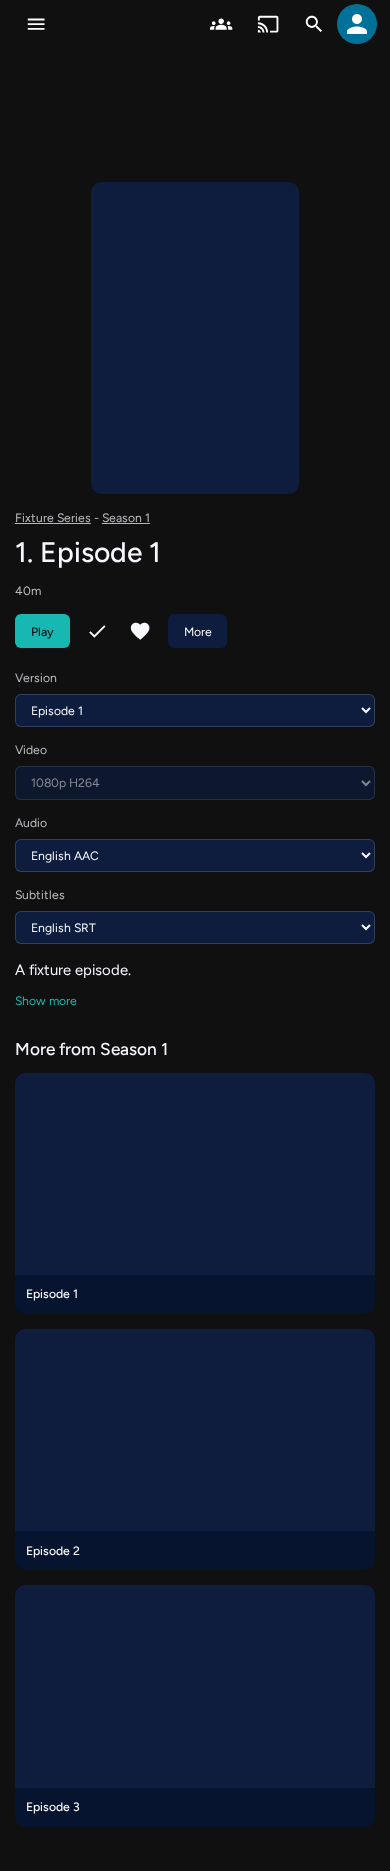
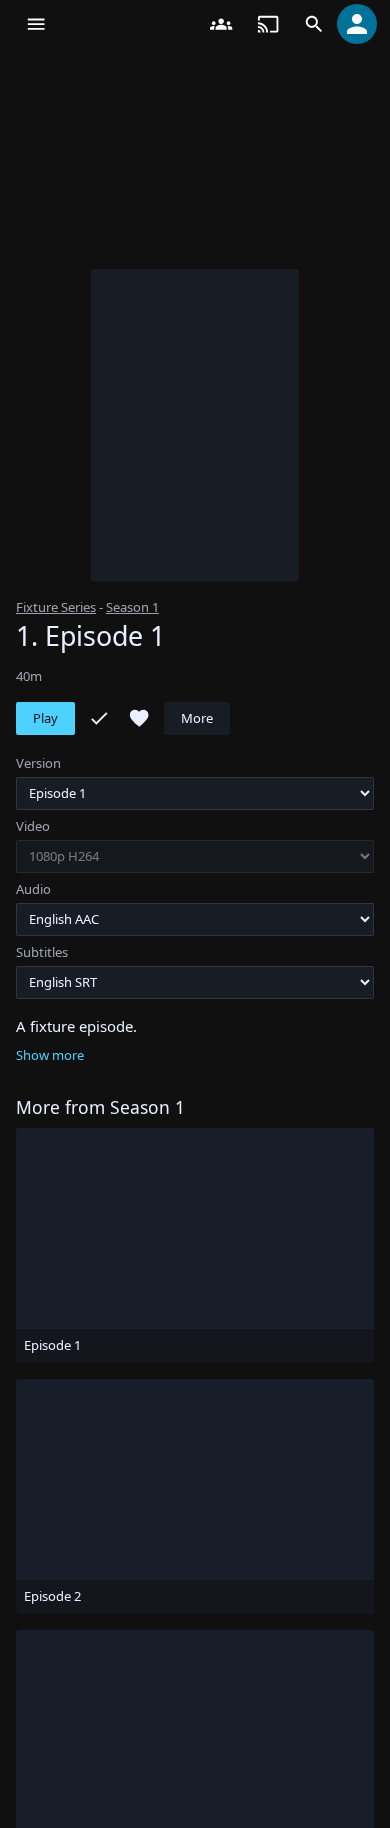
test(item-details): capture the whole theme, not just its recipe
The recipe captures applied the presentation record and nothing else, so
both official themes rendered in the default palette and differed only
by section order — which reads as 'nearly identical', because it is.

A theme reaches a reader as tokens AND a recipe. The suite now injects
the emitted [data-rf-theme] token tier from dist/ (rather than
reimplementing the token projection) alongside the recipe, and asserts
both arrived: data-rf-theme is the requested id and --rf-color-surface
differs between the two.

The platform-default captures are untouched and still byte-identical to
the start commit.

Refs #129

diff --git a/tests/itemDetailsBrowser/itemDetails.recipe.browser.spec.ts b/tests/itemDetailsBrowser/itemDetails.recipe.browser.spec.ts
@@ -16,7 +16,7 @@
  * differ in the order they render, both show the same set of surfaces, and axe finds nothing. The
  * PICTURE is the deliverable, and judging it is the maintainer's job, not a test's.
  */
-import { mkdirSync } from 'node:fs';
+import { mkdirSync, readdirSync } from 'node:fs';
 import { join, resolve } from 'node:path';
 
 import { type Page, expect, test } from '@playwright/test';
@@ -34,8 +34,18 @@ const APPLIED_KEY = 'tesserafin.themeStudio.appliedPresentation';
 mkdirSync(ARTIFACTS, { recursive: true });
 
 const THEMES = [
-    { id: 'classic', label: 'Tesserafin Classic', manifest: classicManifest },
-    { id: 'glass', label: 'Frosted Glass', manifest: glassManifest }
+    {
+        id: 'classic',
+        themeId: 'official.classic',
+        label: 'Tesserafin Classic',
+        manifest: classicManifest
+    },
+    {
+        id: 'glass',
+        themeId: 'official.glass',
+        label: 'Frosted Glass',
+        manifest: glassManifest
+    }
 ] as const;
 
 /** The semantic extremes Phase 7 asks for, limited to what the fixture API can serve. */
@@ -54,13 +64,69 @@ const VIEWPORTS = [
     { id: 'mobile', width: 390, height: 844 }
 ] as const;
 
-async function applyRecipe(page: Page, presentation: unknown) {
-    await page.addInitScript(
-        ([key, value]) => {
-            window.localStorage.setItem(key as string, value as string);
-        },
-        [APPLIED_KEY, JSON.stringify(presentation)] as const
+/**
+ * The generated `--rf-*` token tier for a theme, as an emitted asset.
+ *
+ * `tesserafin-design/scripts/generate-web-tokens.mjs` emits one tier per non-default theme, keyed
+ * on `[data-rf-theme="<id>"]`, and the app fetches it lazily through `ensureColorSchemeLoaded`.
+ * Reading the emitted file rather than rebuilding the tokens here is deliberate: the projection
+ * rule (`ui/tokens/projectTokens.ts`) must not have a second implementation living in a test.
+ *
+ * `null` for the default theme, whose tokens are in the base stylesheet already.
+ */
+function tokenTierFor(themeId: string): string | null {
+    if (themeId === 'official.classic') return null;
+    const slug = themeId.replace(/\./g, '-');
+    const file = readdirSync(DIST).find(
+        (name) =>
+            name.startsWith(`theme-colorscheme-${slug}.`) &&
+            name.endsWith('.css')
     );
+    if (!file) throw new Error(`no emitted token tier for "${themeId}"`);
+    return join(DIST, file);
+}
+
+/**
+ * Dress the page in a theme — BOTH halves of it.
+ *
+ * The first cut of this suite wrote the applied-presentation record and nothing else. That
+ * delivered the recipe and left the palette at the default, so the two themes differed only by
+ * section order and a maintainer reasonably read them as "nearly identical". A capture that shows
+ * less than a reader sees is not evidence.
+ *
+ * A theme reaches a reader as two things and this applies both:
+ *
+ *   - its TOKENS — the emitted `[data-rf-theme]` tier above, plus the attribute that selects it;
+ *   - its RECIPE — `presentation`, through the record `PresentationProvider` reads.
+ *
+ * The picker path (`userSettings.theme()` → `themeManager` → `THEME_CHANGE`) is deliberately not
+ * driven here: it needs the authenticated settings round-trip this server-free fixture does not
+ * reproduce, and it is not what #129 Step 2 changes. What is asserted below is that both halves
+ * arrived — `data-rf-theme` is the requested id and `--rf-color-surface` differs between the two.
+ */
+async function wearTheme(page: Page, themeId: string, presentation: unknown) {
+    await page.addInitScript(
+        ([id, key, value]) => {
+            window.localStorage.setItem(key as string, value as string);
+            document.documentElement.setAttribute(
+                'data-rf-theme',
+                id as string
+            );
+        },
+        [themeId, APPLIED_KEY, JSON.stringify(presentation)] as const
+    );
+}
+
+/** Re-assert the attribute and add the token tier once the app has booted. */
+async function settleTheme(page: Page, themeId: string) {
+    const tier = tokenTierFor(themeId);
+    if (tier) await page.addStyleTag({ path: tier });
+    await page.evaluate((id) => {
+        // `useAppTheme` writes this on mount from the default entry; the capture is of a reader
+        // who chose this theme, so it is set back afterwards.
+        document.documentElement.setAttribute('data-rf-theme', id as string);
+    }, themeId);
+    await page.waitForTimeout(300);
 }
 
 async function open(page: Page, query: string) {
@@ -93,9 +159,14 @@ for (const theme of THEMES) {
                     baseURL
                 }) => {
                     await page.setViewportSize(viewport);
-                    await applyRecipe(page, theme.manifest.presentation);
+                    await wearTheme(
+                        page,
+                        theme.themeId,
+                        theme.manifest.presentation
+                    );
                     await installFixtureApi(page, baseURL as string, DIST);
                     await open(page, subject.query);
+                    await settleTheme(page, theme.themeId);
 
                     expect(await sectionsOf(page)).toContain('nameContainer');
 
@@ -125,9 +196,10 @@ for (const theme of THEMES) {
             page,
             baseURL
         }) => {
-            await applyRecipe(page, theme.manifest.presentation);
+            await wearTheme(page, theme.themeId, theme.manifest.presentation);
             await installFixtureApi(page, baseURL as string, DIST);
             await open(page, 'id=movie-1');
+            await settleTheme(page, theme.themeId);
 
             const result = await scanPage(page, [PAGE]);
             expect(AXE_VERSION).toBe('4.12.1');
@@ -144,9 +216,10 @@ for (const theme of THEMES) {
             // A TV-shaped viewport, driven only by Tab. Reordering content must never strand the
             // fixed header behind it.
             await page.setViewportSize({ width: 1920, height: 1080 });
-            await applyRecipe(page, theme.manifest.presentation);
+            await wearTheme(page, theme.themeId, theme.manifest.presentation);
             await installFixtureApi(page, baseURL as string, DIST);
             await open(page, 'id=movie-1');
+            await settleTheme(page, theme.themeId);
 
             let reached: string | null = null;
             for (let step = 0; step < 40 && !reached; step++) {
@@ -181,26 +254,44 @@ test.describe('the two official recipes are materially distinct', () => {
         browser,
         baseURL
     }) => {
-        const read = async (presentation: unknown) => {
+        const read = async (themeId: string) => {
             const context = await browser.newContext();
             const page = await context.newPage();
-            await applyRecipe(page, presentation);
+            await wearTheme(
+                page,
+                themeId,
+                themeId === 'official.classic'
+                    ? classicManifest.presentation
+                    : glassManifest.presentation
+            );
             await installFixtureApi(page, baseURL as string, DIST);
             await open(page, 'id=movie-1');
+            await settleTheme(page, themeId);
             const observed = {
                 sections: await sectionsOf(page),
                 slots: [...new Set(await slotsOf(page))],
                 backdrop: await page.$$eval(
                     '[data-detail-backdrop]',
                     (nodes) => nodes.length
+                ),
+                // The palette arrives with the theme, not with the recipe. Recorded here because
+                // an earlier cut of this suite delivered the recipe alone and both themes rendered
+                // in the default colours — which is not what a reader sees.
+                rfTheme: await page.evaluate(() =>
+                    document.documentElement.getAttribute('data-rf-theme')
+                ),
+                surface: await page.evaluate(() =>
+                    getComputedStyle(document.documentElement)
+                        .getPropertyValue('--rf-color-surface')
+                        .trim()
                 )
             };
             await context.close();
             return observed;
         };
 
-        const classic = await read(classicManifest.presentation);
-        const glass = await read(glassManifest.presentation);
+        const classic = await read('official.classic');
+        const glass = await read('official.glass');
 
         // Same surfaces, different order — nothing suppressed, everything recomposed.
         expect([...glass.sections].sort()).toEqual(
@@ -208,6 +299,11 @@ test.describe('the two official recipes are materially distinct', () => {
         );
         expect(glass.sections).not.toEqual(classic.sections);
         expect(glass.slots).not.toEqual(classic.slots);
+
+        // And each page is actually wearing its own theme.
+        expect(classic.rfTheme).toBe('official.classic');
+        expect(glass.rfTheme).toBe('official.glass');
+        expect(glass.surface).not.toBe(classic.surface);
 
         // And a visibly different hero: Classic draws the backdrop layer, Glass does not.
         expect(classic.backdrop).toBe(1);
@@ -232,7 +328,11 @@ test.describe('the two official recipes are materially distinct', () => {
 
         const themed = await browser.newContext();
         const themedPage = await themed.newPage();
-        await applyRecipe(themedPage, classicManifest.presentation);
+        await wearTheme(
+            themedPage,
+            'official.classic',
+            classicManifest.presentation
+        );
         await installFixtureApi(themedPage, baseURL as string, DIST);
         await open(themedPage, 'id=movie-1');
         const underClassic = await sectionsOf(themedPage);

diff --git a/docs/tesserafin/captures/item-details-recipe/README.md b/docs/tesserafin/captures/item-details-recipe/README.md
@@ -37,7 +37,34 @@ compare.
 the provider falls back to `PLATFORM_DEFAULT_PRESENTATION`. It is byte-identical to
 `capture-movie.png`.
 
-## 2. The two official recipes
+## 2. What "the theme" means in these captures
+
+A theme reaches a reader as **two** things, and both are applied here:
+
+- its **tokens** — the emitted `[data-rf-theme="<id>"]` tier that
+  `tesserafin-design/scripts/generate-web-tokens.mjs` produces, injected from `dist/` rather than
+  rebuilt, so the projection rule has no second implementation in a test;
+- its **recipe** — `presentation`, through the record `PresentationProvider` reads.
+
+The first cut of this suite applied only the recipe. That left both themes in the default palette,
+so they differed by section order alone and read as nearly identical — a capture showing less than a
+reader sees. Corrected; the suite now asserts `data-rf-theme` is the requested id and that
+`--rf-color-surface` differs between the two.
+
+| | Tesserafin Classic | Frosted Glass |
+| --- | --- | --- |
+| `--rf-color-background` | `#050e22` | `#0b0e14` |
+| `--rf-color-surface` | `#07142f` — opaque | `#161b268c` — 55 % alpha |
+| `--rf-color-primary` | `#18b8b2` teal | `#4fd1ff` cyan |
+| `--rf-blur-md` | `0` | `16px` |
+| `hero` | `backdrop` — band drawn | `poster` — no band, wider poster |
+| movie order | … `itemTags`, `itemDetailsGroup`, `castCollapsible` | … `castCollapsible`, `itemTags`, `itemDetailsGroup` |
+
+Only the last two rows are #129 Step 2's doing. The palette, surface alpha and blur are
+`tokens.core` and `presentation.surface`, bound well before this PR — they are here because a
+capture of one half of a theme is not evidence about the theme.
+
+## 3. The two official recipes
 
 `classic/` and `glass/` each carry seven subjects × two viewports, plus one TV-shaped focus state:
 
